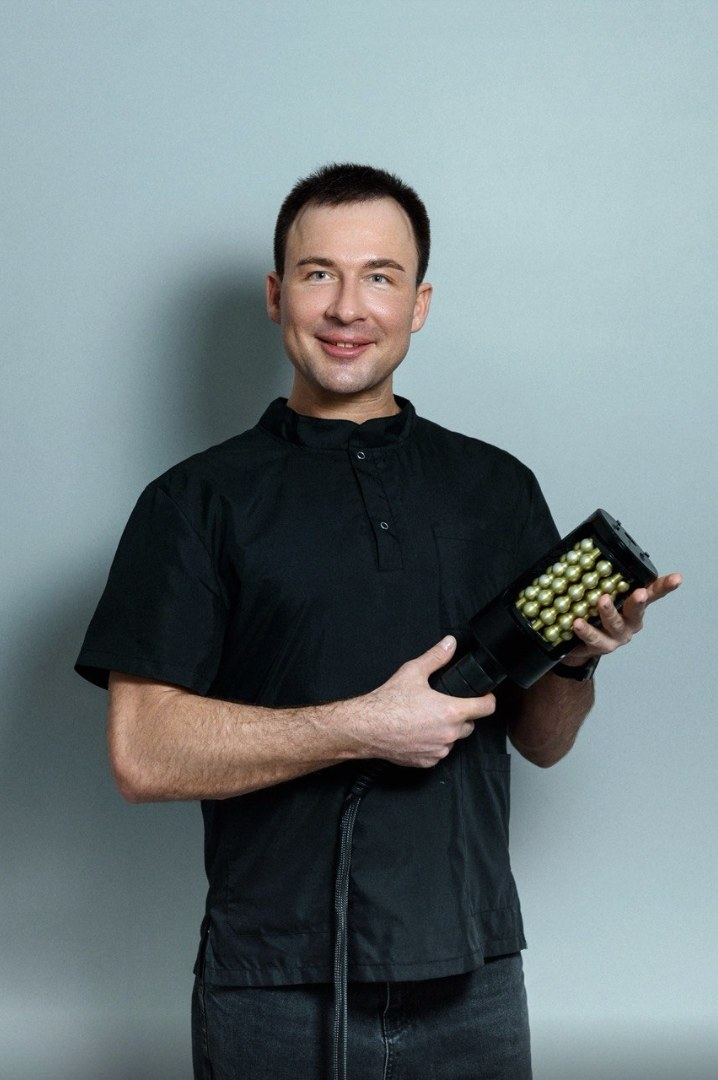
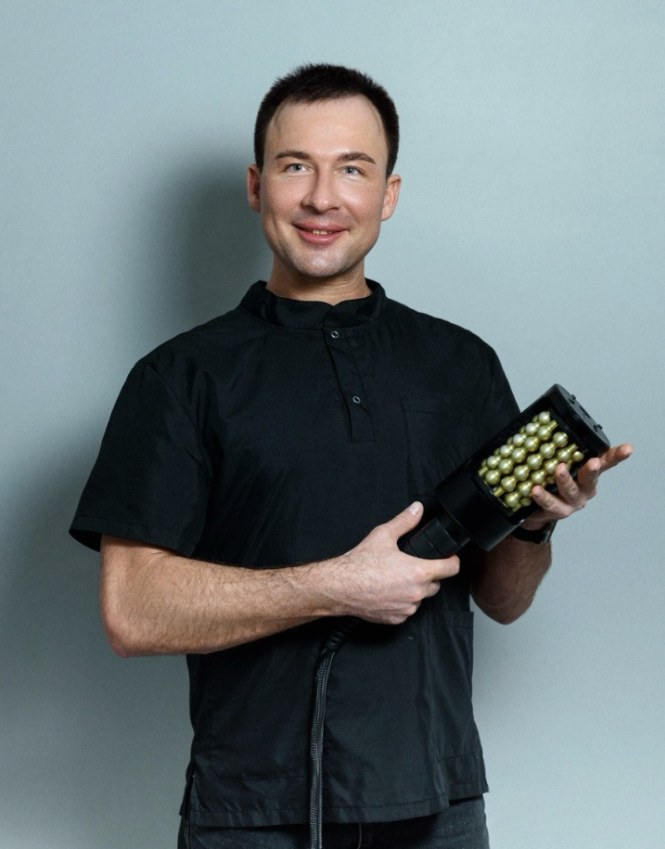
Compact masters block and replace Dmitry photo

Changed region(s): [[0.0, 0.0612, 1.0, 1.0], [0.5113, 0.4594, 0.5414, 0.49]]

diff --git a/src/app/r-sleek/page.tsx b/src/app/r-sleek/page.tsx
@@ -439,48 +439,46 @@ export default function RSleekPage() {
         </div>
       </section>
 
-      <section className="px-5 pb-20 md:px-6 md:pb-28">
+      <section className="px-5 pb-14 md:px-6 md:pb-16">
         <div className="mx-auto max-w-6xl">
           <p className="text-[11px] uppercase tracking-[0.32em] text-[#8fa08c]">
             Мастера
           </p>
-          <h2 className="font-serif mt-3 text-4xl md:text-5xl">
+          <h2 className="font-serif mt-3 text-3xl md:text-4xl">
             Кто ведёт процедуру
           </h2>
-          <div className="mt-10 grid gap-4 md:grid-cols-2">
-            <article className="overflow-hidden rounded-[1.6rem] border border-white/10">
+          <div className="mt-6 grid gap-3 md:grid-cols-2">
+            <article className="grid grid-cols-[7.5rem_1fr] items-center gap-4 overflow-hidden rounded-[1.2rem] border border-white/10 p-3 sm:grid-cols-[8.5rem_1fr]">
               <img
                 src="/media/r-sleek/master-anna.jpg"
                 alt="Анна Волкова, мастер R-Sleek"
-                className="aspect-[4/5] w-full object-cover object-top"
+                className="aspect-[3/4] w-full rounded-[0.9rem] object-cover object-top"
               />
-              <div className="p-7">
+              <div className="pr-2">
                 <p className="text-[11px] uppercase tracking-[0.22em] text-[#8fa08c]">
                   Мастер R-Sleek
                 </p>
-                <h3 className="font-serif mt-2 text-3xl">Анна Волкова</h3>
-                <p className="mt-4 text-sm leading-7 text-[#ece6da]/68">
-                  Ведёт двухфазный протокол: лимфодренаж и локальную коррекцию.
-                  Спокойный ход, без гонки по минутам. Работает с животом,
-                  боками, бёдрами и ягодицами.
+                <h3 className="font-serif mt-1 text-2xl">Анна Волкова</h3>
+                <p className="mt-2 text-sm leading-6 text-[#ece6da]/68">
+                  Двухфазный протокол, спокойный ход. Живот, бока, бёдра,
+                  ягодицы.
                 </p>
               </div>
             </article>
-            <article className="overflow-hidden rounded-[1.6rem] border border-white/10">
+            <article className="grid grid-cols-[7.5rem_1fr] items-center gap-4 overflow-hidden rounded-[1.2rem] border border-white/10 p-3 sm:grid-cols-[8.5rem_1fr]">
               <img
                 src="/media/r-sleek/master-dmitry.jpg"
                 alt="Дмитрий Орлов, мастер R-Sleek"
-                className="aspect-[4/5] w-full object-cover object-top"
+                className="aspect-[3/4] w-full rounded-[0.9rem] object-cover object-top"
               />
-              <div className="p-7">
+              <div className="pr-2">
                 <p className="text-[11px] uppercase tracking-[0.22em] text-[#8fa08c]">
                   Мастер R-Sleek
                 </p>
-                <h3 className="font-serif mt-2 text-3xl">Дмитрий Орлов</h3>
-                <p className="mt-4 text-sm leading-7 text-[#ece6da]/68">
-                  Берёт расширенные слоты на 60 минут, когда зон несколько.
-                  Следит за нажимом под чувствительность кожи и не гонит
-                  ролики «на максимум».
+                <h3 className="font-serif mt-1 text-2xl">Дмитрий Орлов</h3>
+                <p className="mt-2 text-sm leading-6 text-[#ece6da]/68">
+                  Слоты 60 минут на несколько зон. Нажим под кожу, без режима
+                  «на максимум».
                 </p>
               </div>
             </article>
